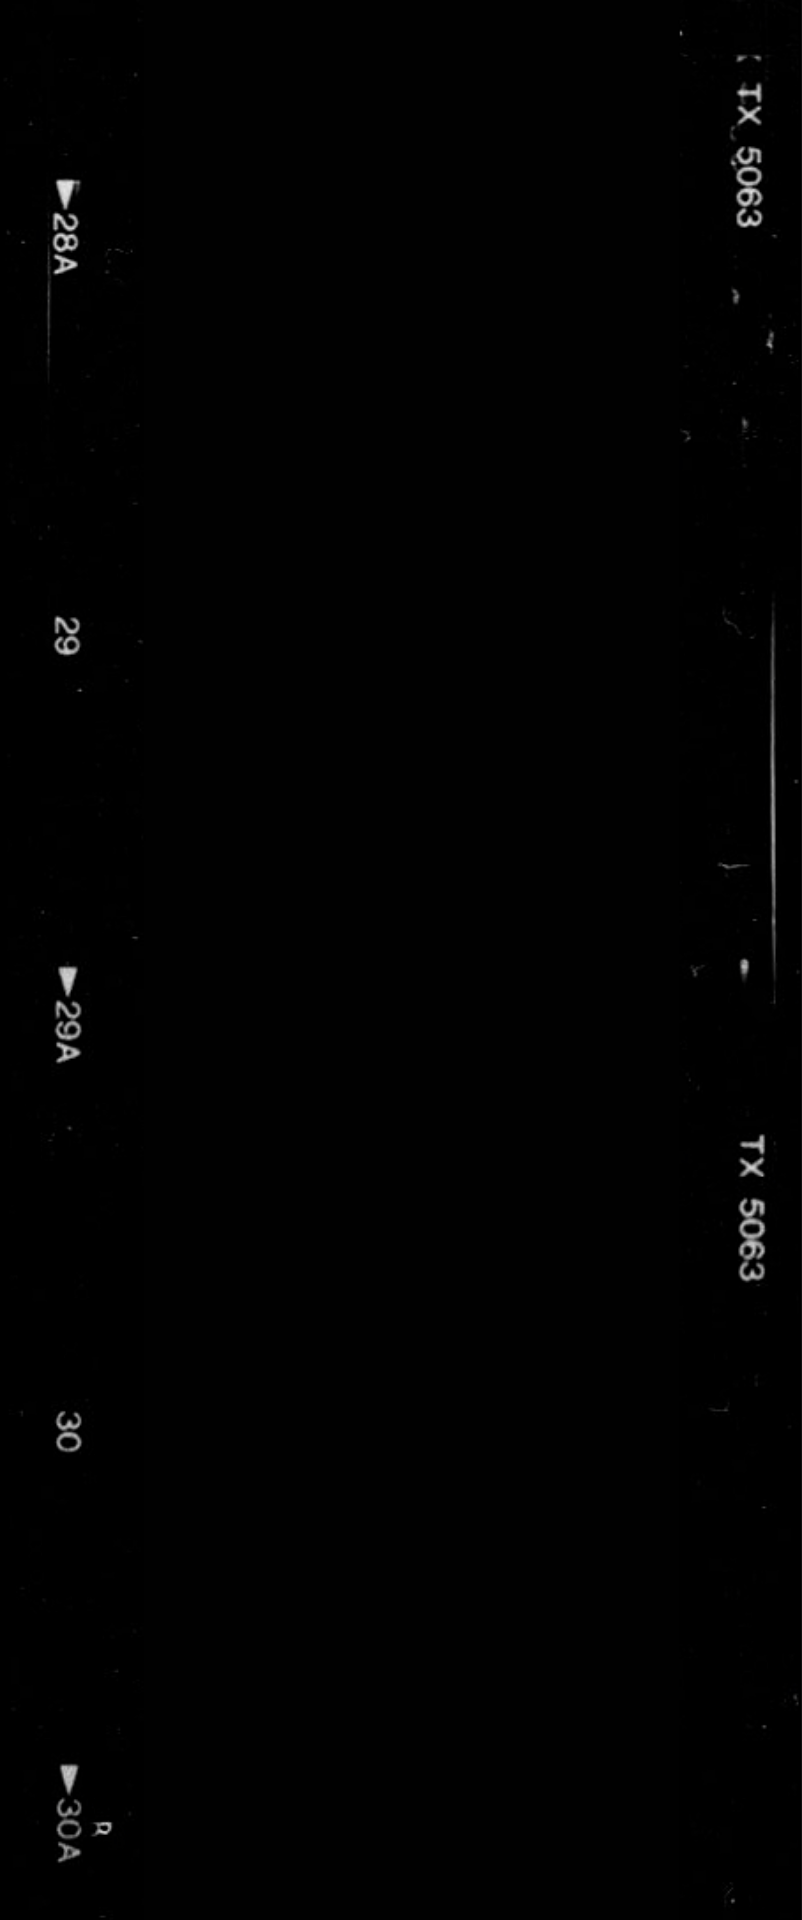
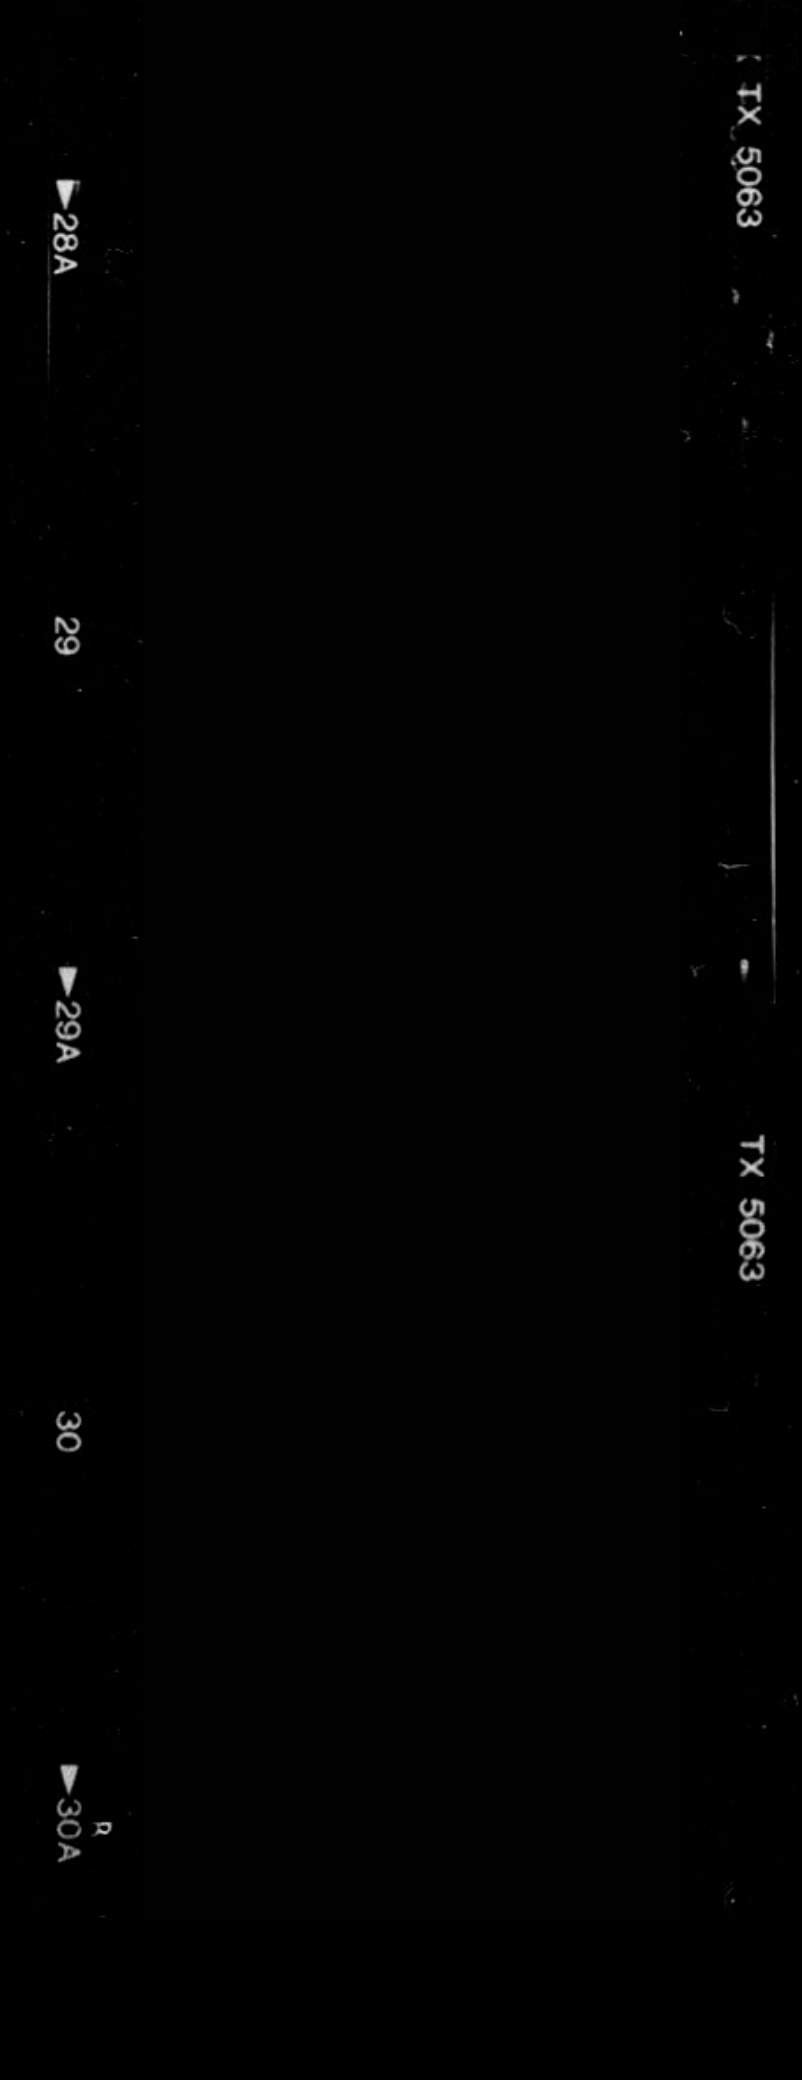
feat: display photobooth coupleNames, date, and tagline across all 6 strip themes

diff --git a/src/components/Photobooth/stripThemes.ts b/src/components/Photobooth/stripThemes.ts
@@ -187,42 +187,88 @@ export const PHOTOBOOTH_STRIP_THEMES: PhotoboothStripTheme[] = [
     slots: [
       {
         id: 'slot-1',
-        x: -50.02,
-        y: -25.48,
+        x: -48,
+        y: -15,
         width: 410,
-        height: 450,
+        height: 390,
         rotation: -16.1995,
         borderRadius: 4,
       },
       {
         id: 'slot-2',
-        x: 80.45,
-        y: 426.13,
+        x: 68,
+        y: 385,
         width: 410,
-        height: 450,
+        height: 390,
         rotation: -16.1995,
         borderRadius: 4,
       },
       {
         id: 'slot-3',
-        x: 210.45,
-        y: 876.08,
+        x: 184,
+        y: 785,
         width: 410,
-        height: 450,
+        height: 390,
         rotation: -16.1995,
         borderRadius: 4,
       },
       {
         id: 'slot-4',
-        x: 341.17,
-        y: 1326.72,
+        x: 300,
+        y: 1185,
         width: 410,
-        height: 450,
+        height: 390,
         rotation: -16.1995,
         borderRadius: 4,
       },
     ],
-    textBlocks: [],
+    textBlocks: [
+      {
+        id: 'event-tagline',
+        x: 280,
+        y: 1595,
+        width: 320,
+        height: 24,
+        rotation: -16.1995,
+        fontFamily: "'Cinzel', Georgia, serif",
+        fontSize: 13,
+        fontWeight: 600,
+        color: '#6B5A4E',
+        align: 'center',
+        binding: 'event.tagline',
+        uppercase: true,
+      },
+      {
+        id: 'couple-name',
+        x: 285,
+        y: 1625,
+        width: 320,
+        height: 44,
+        rotation: -16.1995,
+        fontFamily: "'Dancing Script', cursive",
+        fontSize: 34,
+        fontWeight: 700,
+        color: '#3B2D24',
+        align: 'center',
+        binding: 'event.name',
+        uppercase: false,
+      },
+      {
+        id: 'event-date',
+        x: 295,
+        y: 1676,
+        width: 320,
+        height: 26,
+        rotation: -16.1995,
+        fontFamily: "'Cinzel', Georgia, serif",
+        fontSize: 15,
+        fontWeight: 600,
+        color: '#5C4B3E',
+        align: 'center',
+        binding: 'event.date',
+        uppercase: false,
+      },
+    ],
   },
   {
     id: 'film-vintage-v2',
@@ -333,8 +379,8 @@ export const PHOTOBOOTH_STRIP_THEMES: PhotoboothStripTheme[] = [
     icon: '📸',
     slotCount: 3,
     width: 608,
-    height: 1762,
-    backgroundUrl: '/assets/photobooth/kodak-studio.png',
+    height: 1940,
+    backgroundUrl: '/assets/photobooth/kodak-studio.png?v=2',
     backgroundFit: 'fill',
     bgColor: '#1E1B18',
     textColor: '#FFD700',
@@ -369,7 +415,53 @@ export const PHOTOBOOTH_STRIP_THEMES: PhotoboothStripTheme[] = [
         borderRadius: 2,
       },
     ],
-    textBlocks: [],
+    textBlocks: [
+      {
+        id: 'event-tagline',
+        x: 24,
+        y: 1776,
+        width: 560,
+        height: 26,
+        rotation: 0,
+        fontFamily: "'Montserrat', sans-serif",
+        fontSize: 15,
+        fontWeight: 500,
+        color: '#E5C378',
+        align: 'center',
+        binding: 'event.tagline',
+        uppercase: true,
+      },
+      {
+        id: 'couple-name',
+        x: 24,
+        y: 1812,
+        width: 560,
+        height: 48,
+        rotation: 0,
+        fontFamily: "'Cinzel', Georgia, serif",
+        fontSize: 30,
+        fontWeight: 700,
+        color: '#FFFFFF',
+        align: 'center',
+        binding: 'event.name',
+        uppercase: true,
+      },
+      {
+        id: 'event-date',
+        x: 24,
+        y: 1872,
+        width: 560,
+        height: 30,
+        rotation: 0,
+        fontFamily: "'Courier Prime', monospace",
+        fontSize: 20,
+        fontWeight: 600,
+        color: '#F59E0B',
+        align: 'center',
+        binding: 'event.date',
+        uppercase: false,
+      },
+    ],
   },
   {
     id: 'white-black',
@@ -471,8 +563,8 @@ export const PHOTOBOOTH_STRIP_THEMES: PhotoboothStripTheme[] = [
     icon: '🎬',
     slotCount: 4,
     width: 802,
-    height: 1920,
-    backgroundUrl: '/assets/photobooth/film-classic.png?v=2',
+    height: 2080,
+    backgroundUrl: '/assets/photobooth/film-classic.png?v=3',
     backgroundFit: 'fill',
     bgColor: '#121214',
     textColor: '#FFFFFF',
@@ -516,6 +608,52 @@ export const PHOTOBOOTH_STRIP_THEMES: PhotoboothStripTheme[] = [
         borderRadius: 2,
       },
     ],
-    textBlocks: [],
+    textBlocks: [
+      {
+        id: 'event-tagline',
+        x: 118,
+        y: 1902,
+        width: 560,
+        height: 30,
+        rotation: 0,
+        fontFamily: "'Montserrat', sans-serif",
+        fontSize: 18,
+        fontWeight: 500,
+        color: '#D4AF37',
+        align: 'center',
+        binding: 'event.tagline',
+        uppercase: true,
+      },
+      {
+        id: 'couple-name',
+        x: 118,
+        y: 1942,
+        width: 560,
+        height: 55,
+        rotation: 0,
+        fontFamily: "'Cinzel', Georgia, serif",
+        fontSize: 36,
+        fontWeight: 700,
+        color: '#FFFFFF',
+        align: 'center',
+        binding: 'event.name',
+        uppercase: true,
+      },
+      {
+        id: 'event-date',
+        x: 118,
+        y: 2008,
+        width: 560,
+        height: 34,
+        rotation: 0,
+        fontFamily: "'Courier Prime', monospace",
+        fontSize: 22,
+        fontWeight: 600,
+        color: '#E5E7EB',
+        align: 'center',
+        binding: 'event.date',
+        uppercase: false,
+      },
+    ],
   },
 ];
